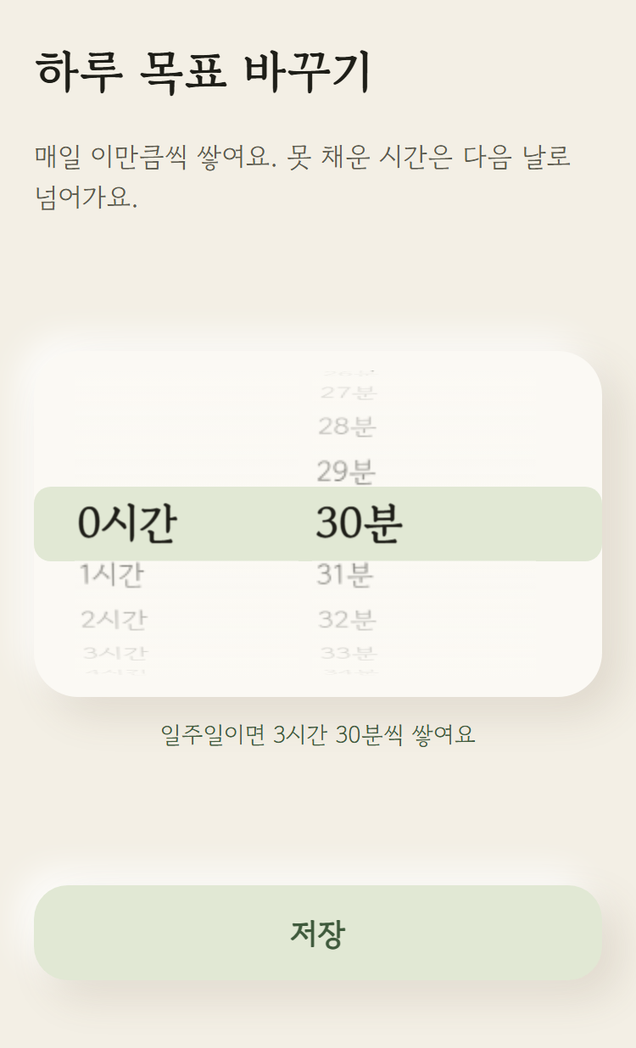
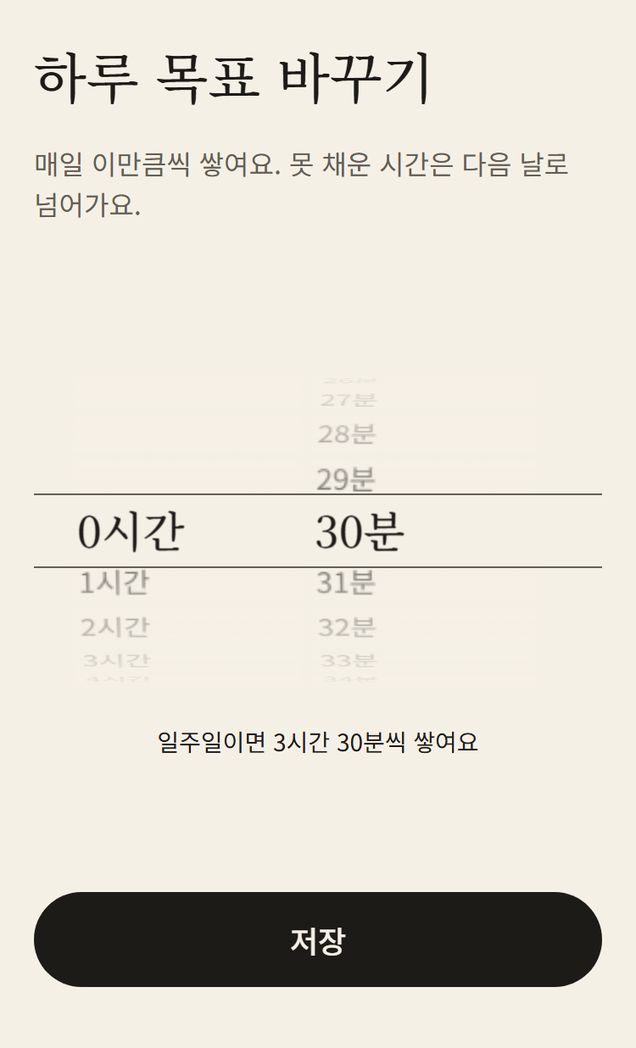
docs(미니앱): 에디토리얼 재테마 PR-5 — 스토어 스크린샷 9장 재촬영 (#1250)
* docs(미니앱): 에디토리얼 재테마 PR-5 — 스토어 스크린샷 9장 재촬영

- 9장 전부 재촬영(01-home·02-feed·03-library·04-history·05-goal·06-study-home·
  07-study-library·08-study-calendar·10-landscape) — 미색·잉크·명조, 홈 아치 + 오늘 표, 서재 아치 + 선반
- shoot.mjs: 촬영 전 Noto Serif KR 500 face `loaded` 신호 대기(15초 넘으면 죽는다) → document.fonts.ready,
  `--block-fonts` 음성 대조 경로 추가(U-15). 컷마다 촬영 직전 document.fonts.ready도 기다린다
- 03 서재 구도: 아치 꼭대기 12px · 선반 1·2단 · 걸친 「여백에 글쓰기」 알약(가리면 죽는다)
- 06 공부 홈 구도: 커진 시계가 윗변에 반토막 나지 않게 아치를 화면 밖으로(아치를 못 찾으면 죽는다)
- 배너 조판 색·서체를 미색·잉크·Noto로, 폰 테두리는 그림자 없는 잉크 1px 선
- README 재촬영 항목 · plan.md PR-4 ✅ / PR-5 🔜(U-17 공부 모드·신고 패널 실측, 남은 폰 재확인·§9 대조) · changelog 한 줄

Session-Model: claude-opus-5-5

* fix(미니앱): 스크린샷 촬영기가 본문 고딕 글꼴 실패도 잡는다 — 리뷰 2회차 반영

명조(Noto Serif KR 500) 신호만 보던 촬영기는 고딕 파일만 막아도 세로 8장을
다 썼다. 대기 신호에 Noto Sans KR 400 loaded를 더하고, 대기 뒤와 컷마다
Noto 두 패밀리에 error face가 있으면 죽는다(assertNoFontError).

실측: 양성 png 9장 바이트 동일 · 고딕 전부 막음 waitForFunction 타임아웃 ·
고딕 조각 절반 막음 「글꼴 받기 실패 face 8개」 — 둘 다 png 변경 0.

Session-Model: claude-opus-5-5

* docs(미니앱): 스토어 스크린샷 04·10 다시 — 잔디 달 라벨 맞닿음 수정 뒤

#1251(맨 앞 이번 달 라벨을 다음 라벨까지 3열이 안 되면 뺀다) 뒤 9장을 다시 돌려
04·10만 바뀌었다 — 「10월9월」 → 「9월 · 8월 · 7월 · 6월」. 나머지 7장 바이트 동일.

Session-Model: claude-opus-5-5

---------

diff --git a/miniapp/screenshots/README.md b/miniapp/screenshots/README.md
@@ -10,19 +10,19 @@
 
 | 파일 | 화면 | 규격 |
 |---|---|---|
-| `01-home.png` | 홈 — 인사말·아바타 헤더 + 타이머 카드 + 표지 캐러셀 | 세로 |
+| `01-home.png` | 홈 — 인사말·아바타 헤더 + 아치(독서\|공부 · 오늘 읽은 시간 · 게이지) + 오늘 표(남은 시간 · 하루 목표 · 읽지 않은 대화) | 세로 |
 | `02-feed.png` | 홈(아래) — 사람·「소식」·「여백」·「책 뉴스」 피드 박스 | 세로 |
-| `03-library.png` | 서재 — 상태 탭 + 표지 캐러셀 + 인라인 여백 박스 | 세로 |
-| `04-history.png` | 기록 — 잔디 + 9월 날짜별 기록, 오늘(측정 두 건 · 하나는 「책 없음」)을 펼쳐 「시각/길이 · 책 · [책 붙이기]/[바꾸기]」 줄과 「그날 목표」까지 | 세로 |
+| `03-library.png` | 서재 — 「내 서재」 아치(판화) + 상태 선반 1·2단(읽는 중 · 다 읽음) + 고른 표지에 걸친 「여백에 글쓰기」 검정 알약 | 세로 |
+| `04-history.png` | 기록 — 잔디 + 10월 날짜별 기록, 오늘(측정 두 건 · 하나는 「책 없음」)을 펼쳐 「시각/길이 · 책 · [책 붙이기]/[바꾸기]」 줄과 「그날 목표」까지 | 세로 |
 | `05-goal.png` | 목표 — 시/분 휠 피커 | 세로 |
-| `06-study-home.png` | 공부 홈 — 「독서\|공부」 토글이 공부로 선 파랑 타이머 카드 + 「무엇을 공부할까요?」 표지 캐러셀 + 「회당 50분 · 바꾸기」(인사말은 화면 밖) | 세로 |
+| `06-study-home.png` | 공부 홈 — 「무엇을 공부할까요?」 파랑 체크 표지 선반 + 「회당 50분 · 바꾸기」(아치·시계는 화면 밖 — 아래 2026-10-13 항목) | 세로 |
 | `07-study-library.png` | 공부 서재 — 「N독」 칩 + 「N시간 공부」 누적 시간 칩 + 「회독 +1」 채움 버튼 | 세로 |
 | `08-study-calendar.png` | 공부 일정 — 월 달력(지킴 원 · 못지킴 테두리 · 측정 점) | 세로 |
 | `10-landscape.png` | 가로형 배너(앱 화면이 아니라 **세로 컷 3장을 얹은 합성물**) | 가로 |
 
 (`shoot.mjs`는 그림이 아니라 **재촬영기**다 — 아래 「재촬영」 참고.)
 
-세로 규격 높이(1048)로는 홈이 한 화면에 안 들어와 **홈을 두 컷**으로 나눴다 — 위(타이머·캐러셀)와
+세로 규격 높이(1048)로는 홈이 한 화면에 안 들어와 **홈을 두 컷**으로 나눴다 — 위(아치 + 오늘 표)와
 아래(피드 박스). 피드는 폴드 아래라 스크롤해 찍는다.
 
 **2026-09-01 추가 — 공부 모드 3컷(06·07·08)**: 이번 출시로 「공부 모드」가 처음 라이브되는데 스토어
@@ -102,6 +102,37 @@ Soft 값(`#EEF2EB`·`#F9FBF7`·`#D6DFD2`·`#3A4637`)으로 바꿨다 — 폰 그
 「07:40–07:55 15분 · 책 없음 · [책 붙이기]」와 「08:40–08:55 15분 · 사피엔스 · [바꾸기]」. 그 아래 09-24 머리가 탭바 뒤로 반쯤 걸치는 것은
 스크롤 화면의 자연스러운 끝이라 그대로 둔다. 옛 구도(어제 5줄을 펼치고 잔디를 내준 채 달 머리를 위에 세운 컷)는 폐기했다.
 
+**2026-10-13 재촬영 — 에디토리얼(미색·잉크·명조), 9장 전부**: 미니앱 전 화면이 따뜻한 Soft에서 「에디토리얼」(미색 종이 `#F5F0E6` ·
+잉크 `#1D1B18` · 제목·값 Noto Serif KR 500 / 본문 Noto Sans KR 400·500 · 그림자 0 · 잉크 1px 선 탭바)로 바뀌고, 홈은 아치 + 오늘 표,
+서재는 아치 + 상태 선반 3단으로 배치까지 바뀌어 9장 모두 **화면 자체가** 바뀌었다. 배너(10)는 조판 색을 에디토리얼 값(`#F5F0E6` ·
+`#1D1B18` · `#4A453E`)으로, 카피 서체를 Noto Serif KR 500 58 / Noto Sans KR 400 21로, 폰 테두리를 그림자 없는 잉크 1px 선으로 바꿨다.
+→ **촬영기가 글꼴 신호를 기다린다**: 앱이 글꼴 CSS를 load 뒤에 붙여(`fonts.ts`) 그냥 찍으면 대체 글꼴로 찍힐 수 있다. 촬영 전(독서·공부
+모드 진입과 배너 조판 각각) `Noto Serif KR` 500 face 하나가 `status === 'loaded'`가 될 때까지 기다리고 15초를 넘으면 **죽는다** → 그다음
+`document.fonts.ready`. `document.fonts.check()`는 쓰지 않는다(글꼴 요청을 막아도 참이었다 — 아래 음성 대조). 이 PC엔 Noto가 시스템에
+깔려 있어 **그림으로는 대체 글꼴을 못 가린다** — 신호 값으로만 판정한다. 음성 대조는 `node miniapp/screenshots/shoot.mjs --block-fonts`
+(구글 폰트 요청을 막는다): 첫 대기에서 타임아웃으로 죽고 png를 하나도 안 쓰면 신호가 살아 있는 것이다.
+→ 실측(촬영 로그): 양성 — 신호 통과 독서 모드 53ms · 공부 모드 31ms · 배너 40ms(`networkidle` 뒤부터 잰 값). 음성 — `--block-fonts`
+`page.waitForFunction: Timeout 15000ms exceeded`(18.8초, png 변경 0). 같은 조건에서 신호 값을 직접 재면 막음 `false`(Noto Serif KR face
+0개) / 열림 `true`(face 124개 중 loaded 12) — 그리고 `check('500 32px "Noto Serif KR"')`는 **둘 다 true**였다.
+→ **본문 고딕도 지킨다(리뷰 2회차)**: 명조 신호만으론 고딕 파일(`fonts.gstatic.com/s/notosanskr/`)만 막아도 세로 8장을 다 썼다. 그래서
+신호에 `Noto Sans KR` 400 `loaded`를 더하고, 대기 뒤와 컷마다 Noto 두 패밀리에 `status === 'error'` face가 하나라도 있으면 죽는다.
+실측: 양성 — 독서 48ms · 공부 30ms · 배너 39ms, png 9장 바이트 동일. 고딕 전부 막음 — `waitForFunction` 타임아웃(18.2초, png 변경 0).
+고딕 조각 절반만 막음 — `글꼴 받기 실패 face 8개`(3.1초, png 변경 0).
+→ **03의 구도를 새로 잡았다**: 상태 탭 줄이 사라지고 선반 세 단(+ 펼친 책)이 됐다. 375×618 창엔 셋째 선반·펼친 책이 안 든다(실측 아치
+24~186 · 선반 214~384 · 396~566 · 578~748 · 펼친 책 776~ · 탭바 540). 이 컷이 파는 것은 「선반에 꽂힌 서재」와 걸친 알약이라, 아치 꼭대기를
+화면 12px 아래에 세워(0에서 찍으면 둘째 선반 바닥 544가 탭바 윗선 540에 걸린다) 둘째 선반 표지 바닥까지 담는다. 실측: 아치 위 12 · 알약
+바닥 372 · 둘째 선반 표지 바닥 532 · 탭바 540. 알약이 탭바 16px 위에 없거나, 둘째 선반 표지가 탭바에 가리거나, 아치가 위로 잘리면 죽는다.
+→ **06의 구도를 고쳤다**: 카드가 아치가 되며 시계가 커져(시계 196~284 · 손잡이 바닥 738 — 542px) 탭바 위 524px에 둘을 함께 못 담는다.
+손잡이 기준으로만 내리면 **시계 숫자가 화면 윗변에 반토막 났다**(첫 촬영 실측 — 잘린 글자는 심사용 그림이 아니다). 그래서 아치를 통째로
+화면 밖으로 넘긴다(아치 바닥 선 4px 아래가 화면 윗변). 공부 모드는 파랑 체크·손잡이 테·탭바 원·「일정」 탭이 말한다. 실측: 스크롤 348 ·
+손잡이 바닥 389 · 탭바 540.
+→ 01·02·04·05·07·08은 기존 기준선 그대로 새 화면에 맞았다(04 실측: 잔디 제목 12 · 펼친 날 머리 285 · 바닥 463 · 탭바 540). 01은 홈의 「무엇으로
+측정할까요?」 선반이 탭바 뒤로 내려가지만, 이 컷이 파는 것은 아치와 오늘 표라 그대로 둔다(09-24 항목의 「01은 캐러셀이 탭바 뒤」와 같은 판단).
+→ **같은 날 04(+10) 다시 — 잔디 달 라벨**: 첫 촬영의 잔디 위 라벨이 「10월9월」로 맞닿아 있었다(이번 달이 2열뿐 — 재테마 전부터 매달 초
+2주 동안 있던 앱 문제). #1251이 서버 `ContributionGraphBuilder`와 목(`dev-mock.ts`)에서 맨 앞(이번 달) 라벨을 다음 라벨까지 3열이 안 되면
+빼게 했고(사용자 결정 「이번 달 라벨 빼기」), 그 뒤 9장을 다시 돌려 04·10만 바뀌었다 — 라벨 「9월 · 8월 · 7월 · 6월」. 나머지 7장은
+바이트 동일(글꼴 신호 통과 독서 60ms · 공부 42ms · 배너 50ms).
+
 ## 재촬영 — `shoot.mjs` 한 방
 
 ```
@@ -113,7 +144,8 @@ node miniapp/screenshots/shoot.mjs     # 9장을 규격대로 덮어쓴다
 (다른 세션이 5300을 쓰는 중이면) 주소를 넘긴다:
 `MINIAPP_MOCK_URL=http://localhost:5301 node miniapp/screenshots/shoot.mjs`
 
-세로 8장 + 가로 배너를 한 번에 만든다. 의존성은 `frontend/node_modules`의 playwright·sharp를 빌려
+세로 8장 + 가로 배너를 한 번에 만든다. 촬영 전 글꼴 신호를 기다리고 15초를 넘으면 죽는다(2026-10-13 항목) —
+음성 대조는 `--block-fonts`. 의존성은 `frontend/node_modules`의 playwright·sharp를 빌려
 쓴다(스크린샷은 번들과 무관한 콘솔 자산이라 미니앱에 촬영용 의존성을 새로 달지 않는다).
 
 ⚠ **이 스크립트가 저장소에 있는 이유**: 2026-08-14 촬영 땐 스크래치패드에 뒀다가 세션과 함께

diff --git a/claude-docs/changelog.md b/claude-docs/changelog.md
@@ -1081,4 +1081,5 @@
 | 2026-10-13 | **feat(미니앱): 에디토리얼 재테마 PR-3 — 서재를 상태 선반 3단으로(아치 · 선반 · 펼친 책)** — 서재의 상태 탭 세 칸 + 한 권씩 캐러셀을 안 1 순서 그대로 아치(폭 260 작은 창 · 올빼미 판화 64 · 「내 서재」 명조 32) → 선반 3단(읽는 중 · 다 읽음 · 읽고 싶어요, 빈 단도 판 위 빈 문구로 남고 머리에 권수 · 2권 이상이면 「펼쳐보기 ›」) → 펼친 책(작은 표지 + 선반과 같은 ✓ · 제목 명조 22 두 줄 · 칩 · 「관리」 외곽선) → 여백(머리 20/28)으로 바꿨다. 세 상태가 늘 함께 서서 모든 책이 한눈에 들고, 선반은 가로로만 넘쳐(`overflow-x`만 — T-159, `pan-x`·스냅 없음) 줄 높이 134가 권수·고르기와 무관하게 고정이다. 「여백에 글쓰기」는 고른 표지에 반 걸친 검정 알약(112×44, 줄의 첫 칸이면 왼쪽 끝)이 되고, 「책 추가」 점선 칸은 읽는 중 맨 앞에서 누르면 곧장 검색이다(옛 「칸 고르기 → 검색해서 담기」 2단계 삭제). 선택 하나가 세 선반을 가로지르고 (`shelfSelection` — 기본은 읽는 중 → 다 읽음 → 읽고 싶어요 첫 책), 추가 직후·격자에서 고른 뒤·관리 시트로 상태를 옮긴 뒤엔 그 선반을 그 표지로 민다(`revealScrollLeft`). 목 모드 실측에서 기본 선택인 책을 관리 시트로 옮기면 ✓가 다음 책으로 넘어가던 것을, 상태 변경 때 고른 값을 그 책으로 못 박아 막았다. 데이터 요청·서버 변경 0, 공부 서재·책방이 가져다 쓰는 export 7개는 그대로. D6는 추천 — 대안 ⓐ(펼친 책을 선반 위로)와 나란히 찍은 컷을 보고 사용자가 2026-10-13 추천으로 확정 |
 | 2026-10-13 | **feat(미니앱): 에디토리얼 재테마 PR-4 — 나머지 화면 옷 마감** — 옛 값 가드(폴백 규칙 · Soft 리터럴)를 제품 소스 전부로 넓히고 가드 빈틈 둘(리터럴 잉크 채움 · global.css 그림자)을 닫았다. 기록 통계 줄 표 · 여백 빈 자리 판화 148 · 종이 작성 카드 테 · 대화 말풍선 · 목표 휠 밴드 선 · 서재 검색 가는 선 행 · 책BTI 태그 · 여백 메뉴 줄 · 서재 칩 paper-2 r2 · 옛 Soft 이름·주석 sweep. 좁은 폰(344 미만)만 게스트 고르기 칸을 줄여 칸 사이 12px 이상(사용자 결정). 리뷰 4회 반영 · 수익 경로 배선 무변경 |
 | 2026-10-13 | **docs: T-264 · T-265 — TaskStop 뒤 남는 vite · 스택 PR이 아래 커밋을 못 받는 함정 기록** — 에디토리얼 재테마 작업에서 두 번 넘게 부딪힌 함정 둘을 사용자 승인으로 기록했다. ① 목 모드 dev 서버를 TaskStop으로 멈춰도 자식 vite가 포트를 쥐고 남는다(이틀 7회 — 포트 → 명령줄 확인 → 그 PID만 종료) ② 스택 PR의 아래 PR에 커밋을 더하면 위 브랜치가 못 받는다(PR-1 `3d97a5df`가 PR-2·3·4에 빠졌던 것 — 아래 커밋마다 위로 병합, squash 머지 뒤엔 옛 머리 기준 `reset --soft` → `rebase --onto`). 같은 PR에서 changelog의 에디토리얼 PR-2·3 행 순서(밤사이 병합으로 뒤바뀜)와 「머지 전 화면 확인 대기」 문구를 실제와 맞췄다 |
+| 2026-10-13 | **docs(미니앱): 에디토리얼 재테마 PR-5 — 스토어 스크린샷 9장 재촬영** — 재테마로 9장 모두 화면 자체가 바뀌어(미색 종이 · 잉크 · 명조, 홈 아치 + 오늘 표, 서재 아치 + 선반 3단) 목 모드로 전부 다시 찍었다. 앱이 글꼴 CSS를 load 뒤에 붙여 그냥 찍으면 대체 글꼴로 찍힐 수 있어, 촬영기가 Noto Serif KR 500 face의 `loaded` 신호를 기다리고 15초를 넘으면 죽게 했다(`document.fonts.check()`는 글꼴을 막아도 참이라 안 쓴다 — `--block-fonts` 음성 대조가 타임아웃으로 죽는 것까지 확인). 서재 컷은 아치 + 선반 1·2단 + 걸친 「여백에 글쓰기」 알약 구도로, 공부 홈 컷은 커진 시계가 화면 윗변에 반토막 나지 않게 아치를 화면 밖으로 넘겼고, 배너 조판도 미색·잉크·Noto로 바꿨다. 콘솔 스크린샷 교체·검수 제출은 사용자 지시 뒤 |
 | 2026-10-13 | **fix: 잔디 월 라벨 맞닿음(「10월9월」) — 이번 달이 3주 미만이면 이번 달 라벨을 뺀다** — 이번 달이 1~2주뿐인 매달 초, 잔디 맨 앞 이번 달 라벨 바로 옆에 지난달 라벨이 서서 맞닿았다(미니앱 14px 「10월」 28.4px > 2열 28px · 웹은 1열 주에 2.7px 겹침 · 미니앱 1열 주엔 거름이 지난달 라벨을 지워 그 4~5열이 이번 달로 읽히는 오표기). 서버 `ContributionGraphBuilder.monthLabels` 한 곳에 「맨 앞 라벨과 다음 라벨 사이가 3열(`MIN_LABEL_WEEKS`) 미만이면 맨 앞을 뺀다」 3줄을 넣어 미니앱·웹 독서·공부 네 화면을 함께 고쳤다(클라이언트 번들·토스 검수 불필요). 지난달이 아니라 이번 달을 빼는 이유는 오표기 방지 — 이번 달은 오늘 링과 잔디 아래 월 머리가 이미 알려 준다. 목(`dev-mock.ts`)도 같은 한 줄. 테스트: 2026년 365일 이웃 라벨 3열 이상(REQ-01) · 10-06/10-13 맨 앞 「9월」(REQ-02) · 10-18 「10월」 0열 복귀(REQ-03, `<=` 돌연변이로 잡힘 확인) · 목 10-13/10-15(REQ-04). 목 실렌더 10-06·10-13·10-15·11-10 최소 글자 간격 13.6px 이상. 스토어 스크린샷 04-history는 머지 뒤 다시 찍는다 |
